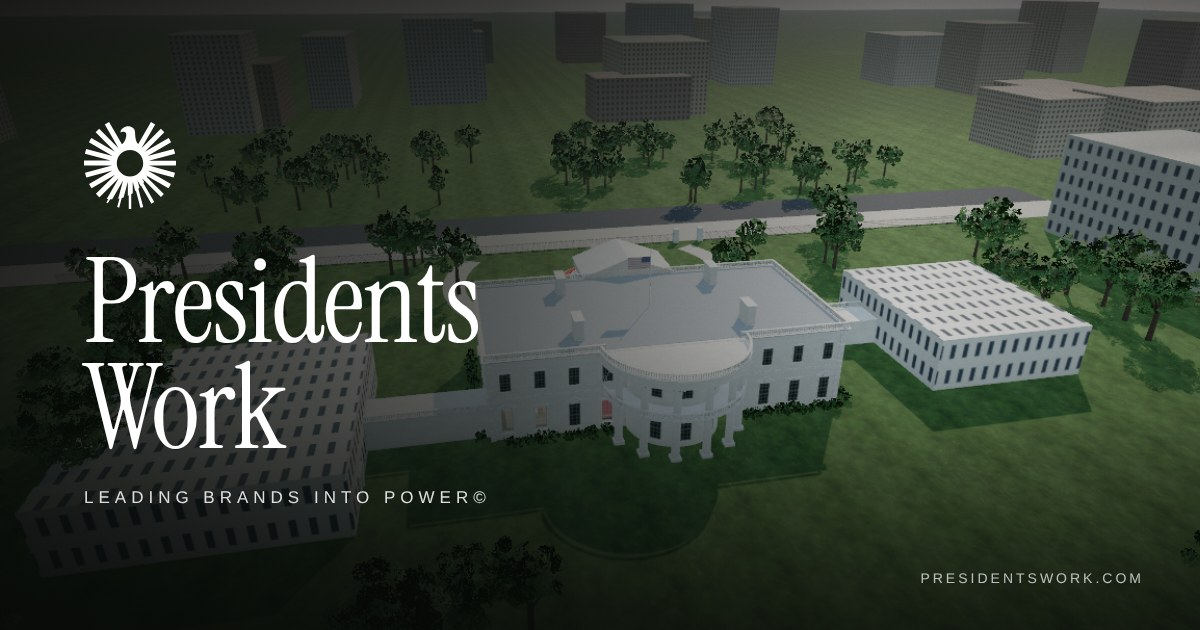
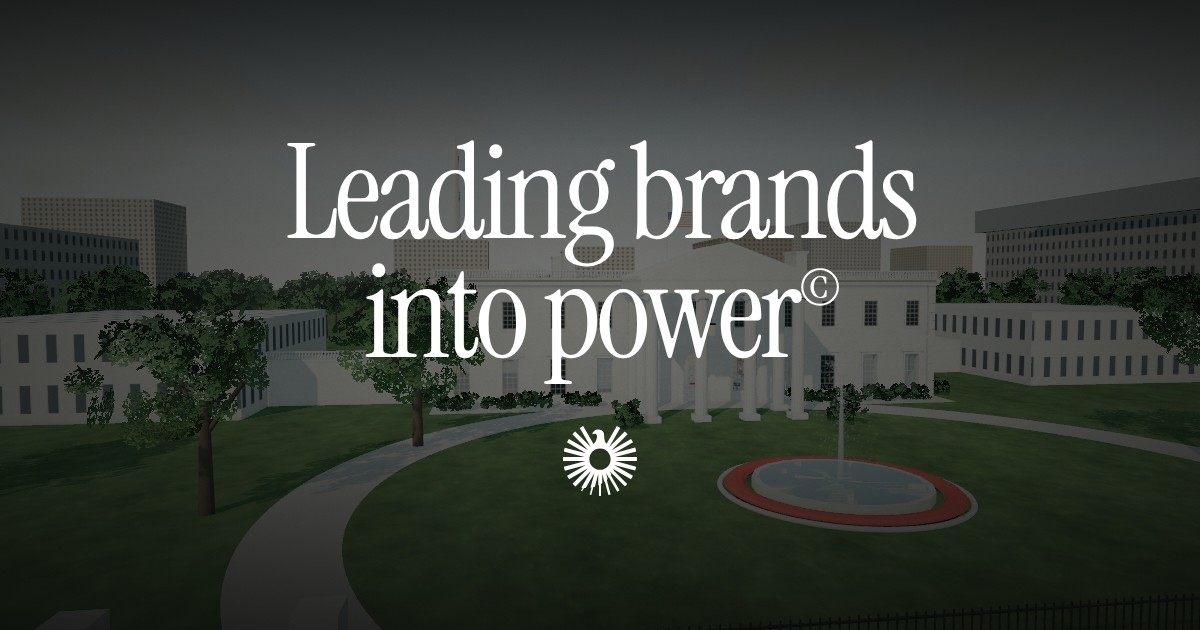
Share image: centred Leading brands into power© headline with the logomark under it
Claude-Session: https://claude.ai/code/session_01M1gM3cs11M6th9xn3DzMyQ

diff --git a/index.html b/index.html
@@ -14,7 +14,7 @@
 <meta property="og:image" content="og-image.jpg">
 <meta property="og:image:width" content="1200">
 <meta property="og:image:height" content="630">
-<meta property="og:image:alt" content="The Presidents Work logomark over the house at dusk">
+<meta property="og:image:alt" content="Leading brands into power©, with the Presidents Work logomark, over the house">
 <meta name="twitter:card" content="summary_large_image">
 <meta name="twitter:title" content="Presidents Work — Leading brands into power©">
 <meta name="twitter:description" content="Presidents Work is a strategic brand consultancy and creative studio that leads brands into power©.">
